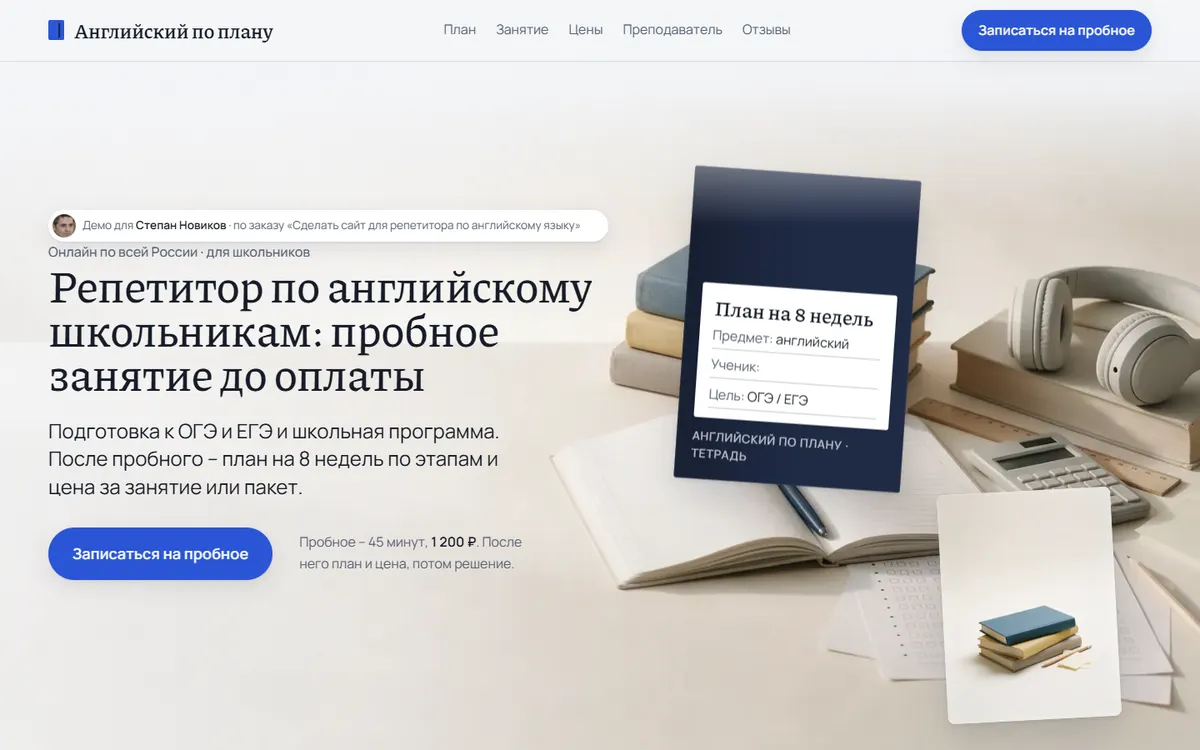
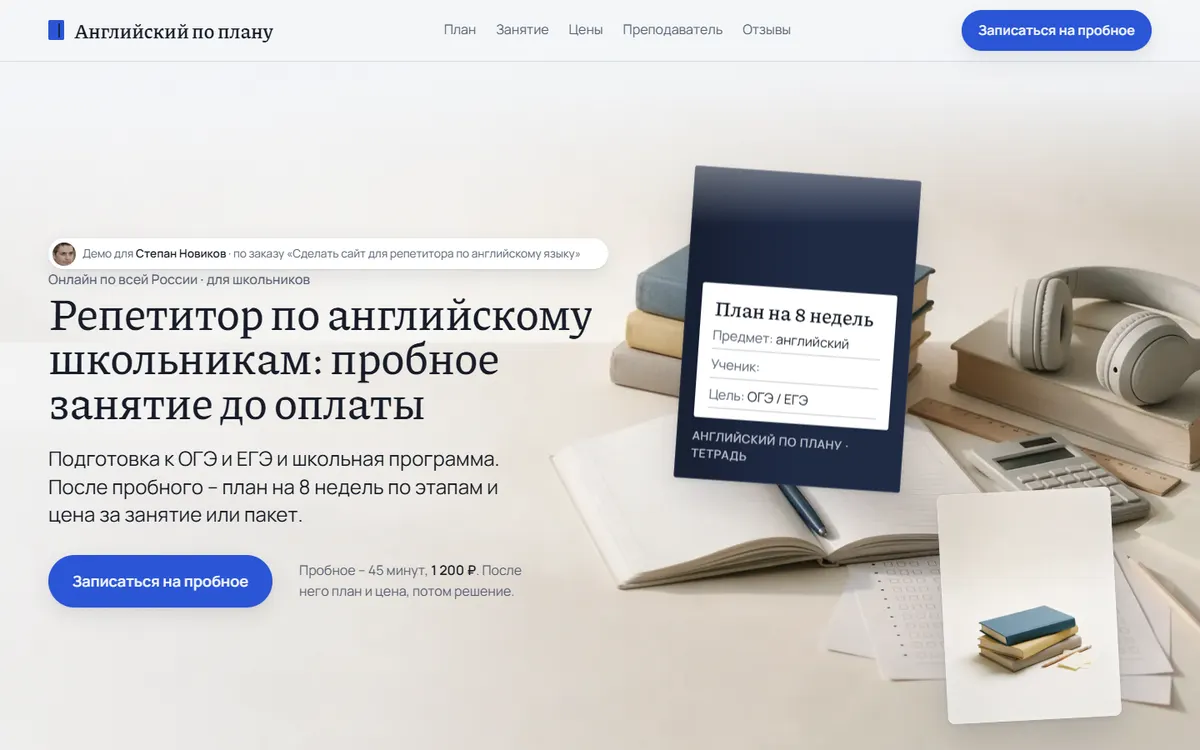
Свежие снимки работ и фото

Changed region(s): [[0.0308, 0.276, 0.5242, 0.828]]

diff --git a/index.html b/index.html
@@ -8,7 +8,7 @@
 <meta property="og:title" content="Елена – сайты для малого бизнеса">
 <meta property="og:description" content="Соберу готовое демо вашего сайта до разговора – вы смотрите результат, а потом решаете.">
 <meta property="og:type" content="website">
-<meta property="og:image" content="assets/case-demo-salon-teply-elena-sites-workers-dev-desktop.webp">
+<meta property="og:image" content="assets/case-ethan2520ca-del-github-io-salon-teply-desktop.webp">
 <meta name="color-scheme" content="light">
 <link rel="preconnect" href="https://fonts.googleapis.com">
 <link rel="preconnect" href="https://fonts.gstatic.com" crossorigin>
@@ -203,7 +203,7 @@ footer{padding:26px 0 40px;color:var(--ink-3);font-size:14px;display:flex;flex-w
 <footer class="wrap"><span id="foot"></span><span><a href="politika.html">Политика обработки персональных данных</a></span><span>Сайт собран с Claude Code</span></footer>
 <div class="toast" id="toast" role="status"></div>
 
-<script id="data" type="application/json">{"name":"Елена","city":"","cityIn":"","photo":"assets/photo.webp","palette":"В","messengers":{"telegram":"melena79","whatsapp":"89881350273","max":"","bot":"https://t.me/elena_sites_bot"},"message":"Здравствуйте! Меня зовут Елена, я делаю сайты для небольших бизнесов. Работаю удалённо — беру заказы из любого города. Посмотрела вашу карточку: сайта у вас нет, а клиенты ищут вас в поиске и уходят к тем, у кого он есть. Могу без оплаты собрать демо и прислать ссылку — посмотрите, как это может выглядеть для вас.","services":[{"title":"Сайт-визитка","desc":"Одна страница: услуги, цены, контакты, карта. Запуск за несколько дней.","price":"15 000 ₽"},{"title":"Лендинг","desc":"Страница под одну услугу или акцию: отзывы, цены, форма заявки.","price":"30 000 ₽"},{"title":"Сайт под ключ","desc":"Несколько страниц, домен, почта, поиск, заявки приходят в мессенджер.","price":"60 000 ₽"}],"cases":[{"title":"Парикмахерская, тёплый стиль","niche":"парикмахерская","city":"","url":"https://ethan2520ca-del.github.io/salon-teply/","kind":"demo","folder":"C:\\Users\\рс\\Desktop\\хермес агент\\плагины хермес\\demo-site\\index.html","task":"Салон без сайта: клиенты приходят только по сарафану","did":"Лендинг с видео на первом экране, прайсом, мастерами и записью","result":"Первый экран показывает процесс работы и снимает страх «а что там внутри»","quote":"","quoteAuthor":"","about":"","desktop":"assets/case-demo-salon-teply-elena-sites-workers-dev-desktop.webp","mobile":"assets/case-demo-salon-teply-elena-sites-workers-dev-mobile.webp","shootUrl":"http://127.0.0.1:4710/salon-teply/"},{"title":"Парикмахерская, журнальная вёрстка","niche":"парикмахерская","city":"","url":"https://ethan2520ca-del.github.io/salon-editorial/","kind":"demo","folder":"C:\\Users\\рс\\Desktop\\хермес агент\\плагины хермес\\demo-editorial\\index.html","task":"Нужен вид дороже, чем у конкурентов на районе","did":"Журнальная подача: крупная антиква, нумерованный прайс, развороты","result":"Салон читается как редакция, а не как парикмахерская у дома","quote":"","quoteAuthor":"","about":"","desktop":"assets/case-demo-salon-editorial-elena-sites-workers-dev-desktop.webp","mobile":"assets/case-demo-salon-editorial-elena-sites-workers-dev-mobile.webp","shootUrl":"http://127.0.0.1:4710/salon-editorial/"},{"title":"Парикмахерская, строгая сетка","niche":"парикмахерская","city":"","url":"https://ethan2520ca-del.github.io/salon-swiss/","kind":"demo","folder":"C:\\Users\\рс\\Desktop\\хермес агент\\плагины хермес\\demo-swiss\\index.html","task":"Клиент хочет цену видеть сразу, без звонков","did":"Таблица цен, сплит-экран, чёрно-белая графика","result":"Прайс понятен с первого экрана, запись в два клика","quote":"","quoteAuthor":"","about":"","desktop":"assets/case-demo-salon-swiss-elena-sites-workers-dev-desktop.webp","mobile":"assets/case-demo-salon-swiss-elena-sites-workers-dev-mobile.webp","shootUrl":"http://127.0.0.1:4710/salon-swiss/"},{"title":"Парикмахерская, громкий стиль","niche":"парикмахерская","city":"","url":"https://ethan2520ca-del.github.io/salon-contrast/","kind":"demo","folder":"C:\\Users\\рс\\Desktop\\хермес агент\\плагины хермес\\demo-contrast\\index.html","task":"Молодая аудитория, нужно внимание в ленте","did":"Крупная капитель, бегущая строка с ценами, чёрные полосы","result":"Первый экран читается даже в превью ссылки","quote":"","quoteAuthor":"","about":"","desktop":"assets/case-demo-salon-contrast-elena-sites-workers-dev-desktop.webp","mobile":"assets/case-demo-salon-contrast-elena-sites-workers-dev-mobile.webp","shootUrl":"http://127.0.0.1:4710/salon-contrast/"},{"title":"Салон в Краснодаре, другая палитра","niche":"парикмахерская","city":"","url":"https://ethan2520ca-del.github.io/forma-krasnodar/","kind":"demo","folder":"C:\\Users\\рс\\Desktop\\хермес агент\\плагины хермес\\demo-site-2\\index.html","task":"Показать, как быстро подгоняется сайт под другого клиента","did":"Тот же макет: другая палитра, другое видео, другая подача","result":"Изменения занимают минуты, а сайт выглядит своим","quote":"","quoteAuthor":"","about":"","desktop":"assets/case-demo-forma-krasnodar-elena-sites-workers-dev-desktop.webp","mobile":"assets/case-demo-forma-krasnodar-elena-sites-workers-dev-mobile.webp","shootUrl":"http://127.0.0.1:4710/forma-krasnodar/"},{"title":"Студия маникюра «Лак и точка»","niche":"студия маникюра","city":"","url":"https://ethan2520ca-del.github.io/lak-i-tochka/","kind":"demo","folder":"C:\\Users\\рс\\.dsh\\skills\\vibe-shablony-vip\\sites\\nogti\\index.html","task":"Клиент выбирает мастера по работам, но у студии их негде показать","did":"Лента работ с временем и ценой под каждым кадром, цены до записи, блок стерильности","result":"Клиент видит результат до записи и приходит на конкретную услугу","quote":"","quoteAuthor":"","about":"","desktop":"assets/case-demo-lak-i-tochka-elena-sites-workers-dev-desktop.webp","mobile":"assets/case-demo-lak-i-tochka-elena-sites-workers-dev-mobile.webp","shootUrl":"http://127.0.0.1:4710/lak-i-tochka/"},{"title":"Шиномонтаж «Шинный двор»","niche":"шиномонтаж","city":"","url":"https://ethan2520ca-del.github.io/shinny-dvor/","kind":"demo","folder":"C:\\Users\\рс\\.dsh\\skills\\vibe-shablony-vip\\sites\\shinomontazh\\index.html","task":"Записи нет, клиент звонит и слышит «приезжайте, очередь»","did":"Запись на час вперёд, цены по радиусу колеса, балансировка и хранение шин","result":"Клиент бронирует время сам, мастер не тратит день на телефон","quote":"","quoteAuthor":"","about":"","desktop":"assets/case-demo-shinny-dvor-elena-sites-workers-dev-desktop.webp","mobile":"assets/case-demo-shinny-dvor-elena-sites-workers-dev-mobile.webp","shootUrl":"http://127.0.0.1:4710/shinny-dvor/"},{"title":"Строители домов «Свой дом»","niche":"строительство домов","city":"","url":"https://ethan2520ca-del.github.io/svoy-dom/","kind":"demo","folder":"C:\\Users\\рс\\.dsh\\skills\\vibe-shablony-vip\\sites\\stroiteli\\index.html","task":"Дорогой продукт, а доверия нет: непонятно, что за люди и как идёт стройка","did":"Стройка по этапам с актами, цена за м², объекты, прораб, расчёт сметы","result":"Клиент видит процесс и людей до первого звонка","quote":"","quoteAuthor":"","about":"","desktop":"assets/case-demo-svoy-dom-elena-sites-workers-dev-desktop.webp","mobile":"assets/case-demo-svoy-dom-elena-sites-workers-dev-mobile.webp","shootUrl":"http://127.0.0.1:4710/svoy-dom/"},{"title":"Ремонт квартир «Чистый ремонт»","niche":"ремонт квартир","city":"","url":"https://ethan2520ca-del.github.io/chistiy-remont/","kind":"demo","folder":"C:\\Users\\рс\\.dsh\\skills\\vibe-shablony-vip\\sites\\remont\\index.html","task":"Главный страх клиента — смета вырастет вдвое посреди ремонта","did":"Было/стало, смета не растёт, этапы по неделям, объекты до и после, расчёт","result":"Снимается главный страх, разговор идёт про сроки, а не про цену","quote":"","quoteAuthor":"","about":"","desktop":"assets/case-demo-chistiy-remont-elena-sites-workers-dev-desktop.webp","mobile":"assets/case-demo-chistiy-remont-elena-sites-workers-dev-mobile.webp","shootUrl":"http://127.0.0.1:4710/chistiy-remont/"},{"title":"Мебель на заказ «Мебель Платов»","niche":"мебель на заказ","city":"","url":"https://ethan2520ca-del.github.io/mebel-platov/","kind":"demo","folder":"C:\\Users\\рс\\.dsh\\skills\\vibe-shablony-vip\\sites\\mebel\\index.html","task":"Кухня на заказ — долгий выбор, клиент уходит думать и не возвращается","did":"Расчёт за день, фасады и цвета, шесть работ, мастер и владелец, отзывы","result":"Клиент получает цену сразу и возвращается с размерами","quote":"","quoteAuthor":"","about":"","desktop":"assets/case-demo-mebel-platov-elena-sites-workers-dev-desktop.webp","mobile":"assets/case-demo-mebel-platov-elena-sites-workers-dev-mobile.webp","shootUrl":"http://127.0.0.1:4710/mebel-platov/"},{"title":"Репетитор английского «Английский по плану»","niche":"репетитор английского","city":"","url":"https://ethan2520ca-del.github.io/repetitor-english/","kind":"demo","folder":"C:\\Users\\рс\\Desktop\\хермес агент\\repetitor-english\\index.html","task":"Родитель не понимает, что будет на занятиях и сколько это стоит","did":"План на 8 недель по этапам, цены до записи, пробное занятие, отзывы и преподаватель","result":"Программа и цена видны до звонка, решение принимается спокойно","quote":"","quoteAuthor":"","about":"","desktop":"assets/case-ethan2520ca-del-github-io-repetitor-english-desktop.webp","mobile":"assets/case-ethan2520ca-del-github-io-repetitor-english-mobile.webp"},{"title":"Цветочный магазин, стиль «Кино»","niche":"цветы","city":"","url":"https://ethan2520ca-del.github.io/cvety-kino/","kind":"demo","folder":"C:\\Users\\рс\\Desktop\\хермес агент\\демо-сайты\\cvety-kino\\index.html","task":"Букеты с доставкой: боятся, что привезут не то, что на фото","did":"Сцена скролла с букетом, фото букета перед отправкой, чат-подтверждение","result":"Первый экран показывает, что клиент получит фото букета до отправки","quote":"","quoteAuthor":"","about":"","desktop":"assets/case-ethan2520ca-del-github-io-cvety-kino-desktop.webp","mobile":"assets/case-ethan2520ca-del-github-io-cvety-kino-mobile.webp"},{"title":"Цветочный магазин, стиль «Лайт»","niche":"цветы","city":"","url":"https://ethan2520ca-del.github.io/cvety-lite/","kind":"demo","folder":"C:\\Users\\рс\\Desktop\\хермес агент\\демо-сайты\\cvety-lite\\index.html","task":"Цветочная мастерская без сайта: заказы только в переписке","did":"Светлый лендинг с крупной типографикой, прайсом доставки и отзывами","result":"Цена и интервал доставки видны до звонка","quote":"","quoteAuthor":"","about":"","desktop":"assets/case-ethan2520ca-del-github-io-cvety-lite-desktop.webp","mobile":"assets/case-ethan2520ca-del-github-io-cvety-lite-mobile.webp"},{"title":"Цветочный магазин, стиль «Продающий»","niche":"цветы","city":"","url":"https://ethan2520ca-del.github.io/cvety-prod/","kind":"demo","folder":"C:\\Users\\рс\\Desktop\\хермес агент\\демо-сайты\\cvety-prod\\index.html","task":"Нужно продавать букеты онлайн, а цену считают вручную в переписке","did":"Тёмный лендинг с калькулятором букета и отправкой заказа в WhatsApp","result":"Клиент сам собирает букет и видит сумму до переписки","quote":"","quoteAuthor":"","about":"","desktop":"assets/case-ethan2520ca-del-github-io-cvety-prod-desktop.webp","mobile":"assets/case-ethan2520ca-del-github-io-cvety-prod-mobile.webp"}],"legal":{"status":"самозанятый","fio":"Маркина Елена Геннадьевна","inn":"226501840708","ogrnip":"","email":"markinavip@yandex.ru"},"policyFile":"politika.html"}</script>
+<script id="data" type="application/json">{"name":"Елена","city":"","cityIn":"","photo":"assets/photo.webp","palette":"В","messengers":{"telegram":"melena79","whatsapp":"89881350273","max":"","bot":"https://t.me/elena_sites_bot"},"message":"Здравствуйте! Меня зовут Елена, я делаю сайты для небольших бизнесов. Работаю удалённо — беру заказы из любого города. Посмотрела вашу карточку: сайта у вас нет, а клиенты ищут вас в поиске и уходят к тем, у кого он есть. Могу без оплаты собрать демо и прислать ссылку — посмотрите, как это может выглядеть для вас.","services":[{"title":"Сайт-визитка","desc":"Одна страница: услуги, цены, контакты, карта. Запуск за несколько дней.","price":"15 000 ₽"},{"title":"Лендинг","desc":"Страница под одну услугу или акцию: отзывы, цены, форма заявки.","price":"30 000 ₽"},{"title":"Сайт под ключ","desc":"Несколько страниц, домен, почта, поиск, заявки приходят в мессенджер.","price":"60 000 ₽"}],"cases":[{"title":"Парикмахерская, тёплый стиль","niche":"парикмахерская","city":"","url":"https://ethan2520ca-del.github.io/salon-teply/","kind":"demo","folder":"C:\\Users\\рс\\Desktop\\хермес агент\\плагины хермес\\demo-site\\index.html","task":"Салон без сайта: клиенты приходят только по сарафану","did":"Лендинг с видео на первом экране, прайсом, мастерами и записью","result":"Первый экран показывает процесс работы и снимает страх «а что там внутри»","quote":"","quoteAuthor":"","about":"","desktop":"assets/case-ethan2520ca-del-github-io-salon-teply-desktop.webp","mobile":"assets/case-ethan2520ca-del-github-io-salon-teply-mobile.webp","shootUrl":"https://ethan2520ca-del.github.io/salon-teply/"},{"title":"Парикмахерская, журнальная вёрстка","niche":"парикмахерская","city":"","url":"https://ethan2520ca-del.github.io/salon-editorial/","kind":"demo","folder":"C:\\Users\\рс\\Desktop\\хермес агент\\плагины хермес\\demo-editorial\\index.html","task":"Нужен вид дороже, чем у конкурентов на районе","did":"Журнальная подача: крупная антиква, нумерованный прайс, развороты","result":"Салон читается как редакция, а не как парикмахерская у дома","quote":"","quoteAuthor":"","about":"","desktop":"assets/case-ethan2520ca-del-github-io-salon-editorial-desktop.webp","mobile":"assets/case-ethan2520ca-del-github-io-salon-editorial-mobile.webp","shootUrl":"https://ethan2520ca-del.github.io/salon-editorial/"},{"title":"Парикмахерская, строгая сетка","niche":"парикмахерская","city":"","url":"https://ethan2520ca-del.github.io/salon-swiss/","kind":"demo","folder":"C:\\Users\\рс\\Desktop\\хермес агент\\плагины хермес\\demo-swiss\\index.html","task":"Клиент хочет цену видеть сразу, без звонков","did":"Таблица цен, сплит-экран, чёрно-белая графика","result":"Прайс понятен с первого экрана, запись в два клика","quote":"","quoteAuthor":"","about":"","desktop":"assets/case-ethan2520ca-del-github-io-salon-swiss-desktop.webp","mobile":"assets/case-ethan2520ca-del-github-io-salon-swiss-mobile.webp","shootUrl":"https://ethan2520ca-del.github.io/salon-swiss/"},{"title":"Парикмахерская, громкий стиль","niche":"парикмахерская","city":"","url":"https://ethan2520ca-del.github.io/salon-contrast/","kind":"demo","folder":"C:\\Users\\рс\\Desktop\\хермес агент\\плагины хермес\\demo-contrast\\index.html","task":"Молодая аудитория, нужно внимание в ленте","did":"Крупная капитель, бегущая строка с ценами, чёрные полосы","result":"Первый экран читается даже в превью ссылки","quote":"","quoteAuthor":"","about":"","desktop":"assets/case-ethan2520ca-del-github-io-salon-contrast-desktop.webp","mobile":"assets/case-ethan2520ca-del-github-io-salon-contrast-mobile.webp","shootUrl":"https://ethan2520ca-del.github.io/salon-contrast/"},{"title":"Салон в Краснодаре, другая палитра","niche":"парикмахерская","city":"","url":"https://ethan2520ca-del.github.io/forma-krasnodar/","kind":"demo","folder":"C:\\Users\\рс\\Desktop\\хермес агент\\плагины хермес\\demo-site-2\\index.html","task":"Показать, как быстро подгоняется сайт под другого клиента","did":"Тот же макет: другая палитра, другое видео, другая подача","result":"Изменения занимают минуты, а сайт выглядит своим","quote":"","quoteAuthor":"","about":"","desktop":"assets/case-ethan2520ca-del-github-io-forma-krasnodar-desktop.webp","mobile":"assets/case-ethan2520ca-del-github-io-forma-krasnodar-mobile.webp","shootUrl":"https://ethan2520ca-del.github.io/forma-krasnodar/"},{"title":"Студия маникюра «Лак и точка»","niche":"студия маникюра","city":"","url":"https://ethan2520ca-del.github.io/lak-i-tochka/","kind":"demo","folder":"C:\\Users\\рс\\.dsh\\skills\\vibe-shablony-vip\\sites\\nogti\\index.html","task":"Клиент выбирает мастера по работам, но у студии их негде показать","did":"Лента работ с временем и ценой под каждым кадром, цены до записи, блок стерильности","result":"Клиент видит результат до записи и приходит на конкретную услугу","quote":"","quoteAuthor":"","about":"","desktop":"assets/case-demo-lak-i-tochka-elena-sites-workers-dev-desktop.webp","mobile":"assets/case-demo-lak-i-tochka-elena-sites-workers-dev-mobile.webp","shootUrl":"https://ethan2520ca-del.github.io/lak-i-tochka/"},{"title":"Шиномонтаж «Шинный двор»","niche":"шиномонтаж","city":"","url":"https://ethan2520ca-del.github.io/shinny-dvor/","kind":"demo","folder":"C:\\Users\\рс\\.dsh\\skills\\vibe-shablony-vip\\sites\\shinomontazh\\index.html","task":"Записи нет, клиент звонит и слышит «приезжайте, очередь»","did":"Запись на час вперёд, цены по радиусу колеса, балансировка и хранение шин","result":"Клиент бронирует время сам, мастер не тратит день на телефон","quote":"","quoteAuthor":"","about":"","desktop":"assets/case-demo-shinny-dvor-elena-sites-workers-dev-desktop.webp","mobile":"assets/case-demo-shinny-dvor-elena-sites-workers-dev-mobile.webp","shootUrl":"https://ethan2520ca-del.github.io/shinny-dvor/"},{"title":"Строители домов «Свой дом»","niche":"строительство домов","city":"","url":"https://ethan2520ca-del.github.io/svoy-dom/","kind":"demo","folder":"C:\\Users\\рс\\.dsh\\skills\\vibe-shablony-vip\\sites\\stroiteli\\index.html","task":"Дорогой продукт, а доверия нет: непонятно, что за люди и как идёт стройка","did":"Стройка по этапам с актами, цена за м², объекты, прораб, расчёт сметы","result":"Клиент видит процесс и людей до первого звонка","quote":"","quoteAuthor":"","about":"","desktop":"assets/case-demo-svoy-dom-elena-sites-workers-dev-desktop.webp","mobile":"assets/case-demo-svoy-dom-elena-sites-workers-dev-mobile.webp","shootUrl":"https://ethan2520ca-del.github.io/svoy-dom/"},{"title":"Ремонт квартир «Чистый ремонт»","niche":"ремонт квартир","city":"","url":"https://ethan2520ca-del.github.io/chistiy-remont/","kind":"demo","folder":"C:\\Users\\рс\\.dsh\\skills\\vibe-shablony-vip\\sites\\remont\\index.html","task":"Главный страх клиента — смета вырастет вдвое посреди ремонта","did":"Было/стало, смета не растёт, этапы по неделям, объекты до и после, расчёт","result":"Снимается главный страх, разговор идёт про сроки, а не про цену","quote":"","quoteAuthor":"","about":"","desktop":"assets/case-demo-chistiy-remont-elena-sites-workers-dev-desktop.webp","mobile":"assets/case-demo-chistiy-remont-elena-sites-workers-dev-mobile.webp","shootUrl":"https://ethan2520ca-del.github.io/chistiy-remont/"},{"title":"Мебель на заказ «Мебель Платов»","niche":"мебель на заказ","city":"","url":"https://ethan2520ca-del.github.io/mebel-platov/","kind":"demo","folder":"C:\\Users\\рс\\.dsh\\skills\\vibe-shablony-vip\\sites\\mebel\\index.html","task":"Кухня на заказ — долгий выбор, клиент уходит думать и не возвращается","did":"Расчёт за день, фасады и цвета, шесть работ, мастер и владелец, отзывы","result":"Клиент получает цену сразу и возвращается с размерами","quote":"","quoteAuthor":"","about":"","desktop":"assets/case-demo-mebel-platov-elena-sites-workers-dev-desktop.webp","mobile":"assets/case-demo-mebel-platov-elena-sites-workers-dev-mobile.webp","shootUrl":"https://ethan2520ca-del.github.io/mebel-platov/"},{"title":"Репетитор английского «Английский по плану»","niche":"репетитор английского","city":"","url":"https://ethan2520ca-del.github.io/repetitor-english/","kind":"demo","folder":"C:\\Users\\рс\\Desktop\\хермес агент\\repetitor-english\\index.html","task":"Родитель не понимает, что будет на занятиях и сколько это стоит","did":"План на 8 недель по этапам, цены до записи, пробное занятие, отзывы и преподаватель","result":"Программа и цена видны до звонка, решение принимается спокойно","quote":"","quoteAuthor":"","about":"","desktop":"assets/case-ethan2520ca-del-github-io-repetitor-english-desktop.webp","mobile":"assets/case-ethan2520ca-del-github-io-repetitor-english-mobile.webp"},{"title":"Цветочный магазин, стиль «Кино»","niche":"цветы","city":"","url":"https://ethan2520ca-del.github.io/cvety-kino/","kind":"demo","folder":"C:\\Users\\рс\\Desktop\\хермес агент\\демо-сайты\\cvety-kino\\index.html","task":"Букеты с доставкой: боятся, что привезут не то, что на фото","did":"Сцена скролла с букетом, фото букета перед отправкой, чат-подтверждение","result":"Первый экран показывает, что клиент получит фото букета до отправки","quote":"","quoteAuthor":"","about":"","desktop":"assets/case-ethan2520ca-del-github-io-cvety-kino-desktop.webp","mobile":"assets/case-ethan2520ca-del-github-io-cvety-kino-mobile.webp"},{"title":"Цветочный магазин, стиль «Лайт»","niche":"цветы","city":"","url":"https://ethan2520ca-del.github.io/cvety-lite/","kind":"demo","folder":"C:\\Users\\рс\\Desktop\\хермес агент\\демо-сайты\\cvety-lite\\index.html","task":"Цветочная мастерская без сайта: заказы только в переписке","did":"Светлый лендинг с крупной типографикой, прайсом доставки и отзывами","result":"Цена и интервал доставки видны до звонка","quote":"","quoteAuthor":"","about":"","desktop":"assets/case-ethan2520ca-del-github-io-cvety-lite-desktop.webp","mobile":"assets/case-ethan2520ca-del-github-io-cvety-lite-mobile.webp"},{"title":"Цветочный магазин, стиль «Продающий»","niche":"цветы","city":"","url":"https://ethan2520ca-del.github.io/cvety-prod/","kind":"demo","folder":"C:\\Users\\рс\\Desktop\\хермес агент\\демо-сайты\\cvety-prod\\index.html","task":"Нужно продавать букеты онлайн, а цену считают вручную в переписке","did":"Тёмный лендинг с калькулятором букета и отправкой заказа в WhatsApp","result":"Клиент сам собирает букет и видит сумму до переписки","quote":"","quoteAuthor":"","about":"","desktop":"assets/case-ethan2520ca-del-github-io-cvety-prod-desktop.webp","mobile":"assets/case-ethan2520ca-del-github-io-cvety-prod-mobile.webp"}],"legal":{"status":"самозанятый","fio":"Маркина Елена Геннадьевна","inn":"226501840708","ogrnip":"","email":"markinavip@yandex.ru"},"policyFile":"politika.html"}</script>
 <script>
 (() => {
   const D = JSON.parse(document.getElementById('data').textContent);
